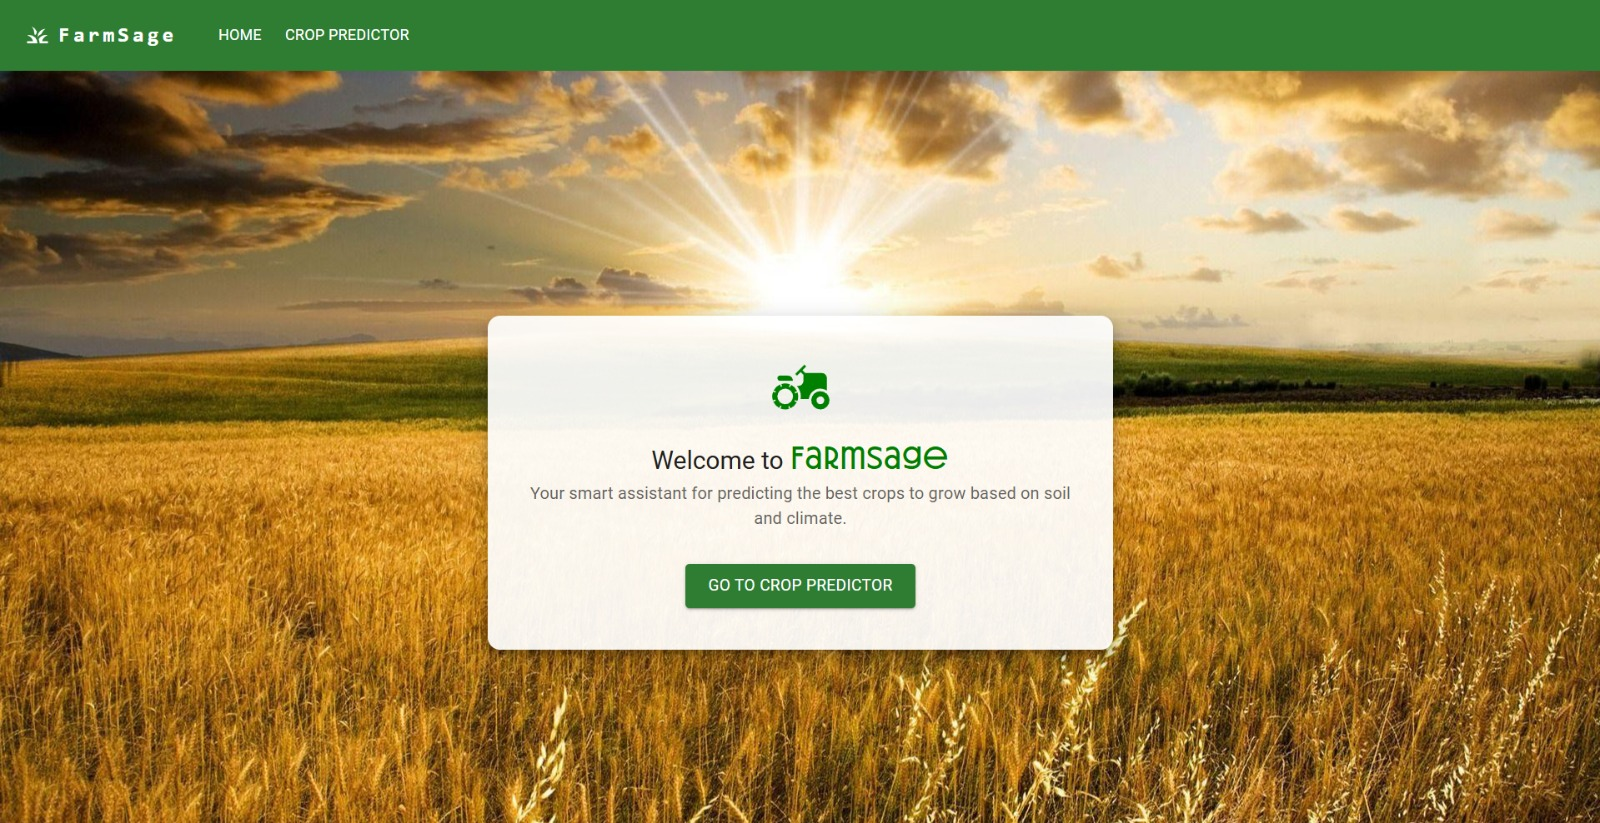
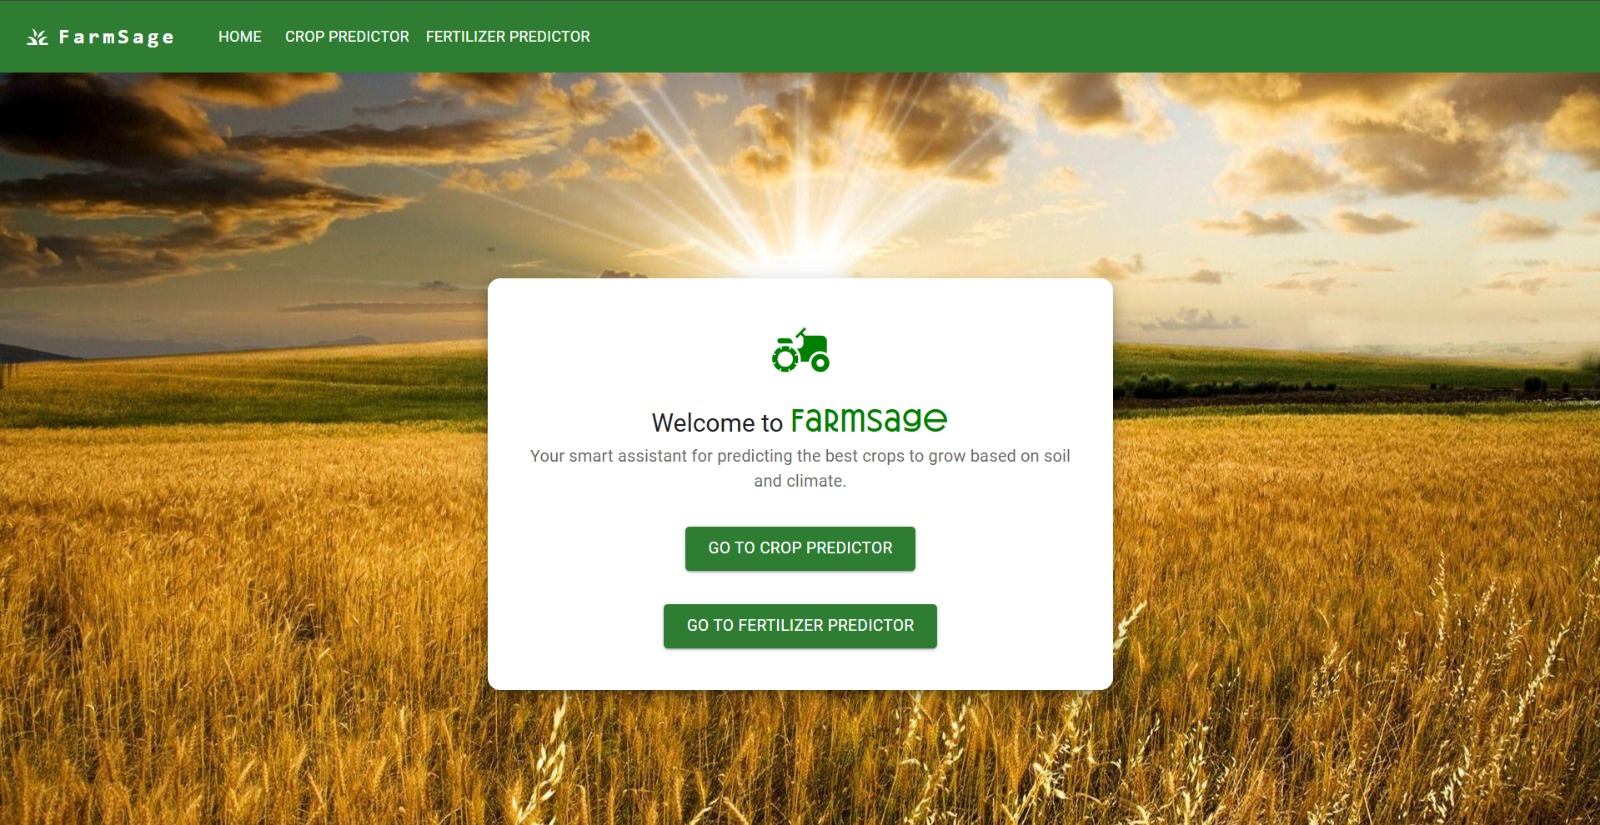
Updated final changes

diff --git a/Frontend/src/pages/HomePage.jsx b/Frontend/src/pages/HomePage.jsx
@@ -11,7 +11,6 @@ const HomePage = () => {
           elevation={10}
           sx={{
             p: { xs: 3, sm: 5 },
-            backgroundColor: "rgba(255, 255, 255, 0.92)",
             textAlign: "center",
             borderRadius: 3,
           }}

diff --git a/readme.md b/readme.md
@@ -25,6 +25,8 @@ FarmSage is a smart and intuitive crop prediction web application that recommend
 
 ## 🧪 How It Works
 
+### 🌿 Crop Prediction
+
 1. User inputs values for:
    - Primary Macronutrients (N, P, K)
    - Secondary Macronutrients (S, Ca, Mg)
@@ -37,16 +39,37 @@ FarmSage is a smart and intuitive crop prediction web application that recommend
 
 ---
 
+### 💧 Fertilizer Prediction
+
+1. User inputs values for:
+   - Crop name
+   - Lower and Upper bounds for all nutrients (N, P, K, Ca, Mg, S, Fe, Mn, Cu, B, Mo, Zn)
+   - Climate & Soil: Soil pH, Rainfall (cm), Humidity (%), Soil Moisture (%), Water Holding Capacity (%)
+
+2. The Flask backend loads the trained `fertilizer_classifier.json` model and encoders.
+
+3. The recommended fertilizer is returned and displayed on the frontend. Input fields are auto-cleared after submission.
+
+---
+
 ## 📸 Screenshots
 
 ### 🏠 Home Page
 
-![Homepage](screenshots/homepage.jpg)
+![Homepage](screenshots/homepage.jpeg)
 
 ### 🌿 Crop Predictor Page
 
 ![Crop Predictor](screenshots/predictor1.jpeg)
 ![Crop Predictor](screenshots/predictor2.jpeg)
+
+
+### 🌿 Fertilizer Predictor Page
+
+![Fertilizer Predictor](screenshots/Fertilizer1.jpeg)
+![Fertilizer Predictor](screenshots/Fertilizer2.jpeg)
+![Fertilizer Predictor](screenshots/Fertilizer3.jpeg)
+
 
 ---
 
@@ -57,10 +80,9 @@ FarmSage/
 ├── Backend/
 │   ├── app.py
 │   ├── predictor.py
+│   ├── fertilizer_predictor.py
 │   ├── model_trainer.py
-│   └── Models/
-│       ├── xgb_crop_model.pkl
-│       └── crop_label_binarizer.pkl
+│   └── Models/      
 ├── Frontend/
 │   ├── src/
 │   │   ├── components/
@@ -95,7 +117,6 @@ npm run dev
 
 ## 🧠 Future Enhancements
 
-- 🌾 Fertilizer Recommendation Module
 - 🐛 Plant Disease Detection using leaf images
 - 🛰 Satellite & IoT-based crop monitoring
 - 🌐 Language support for multilingual farmers
